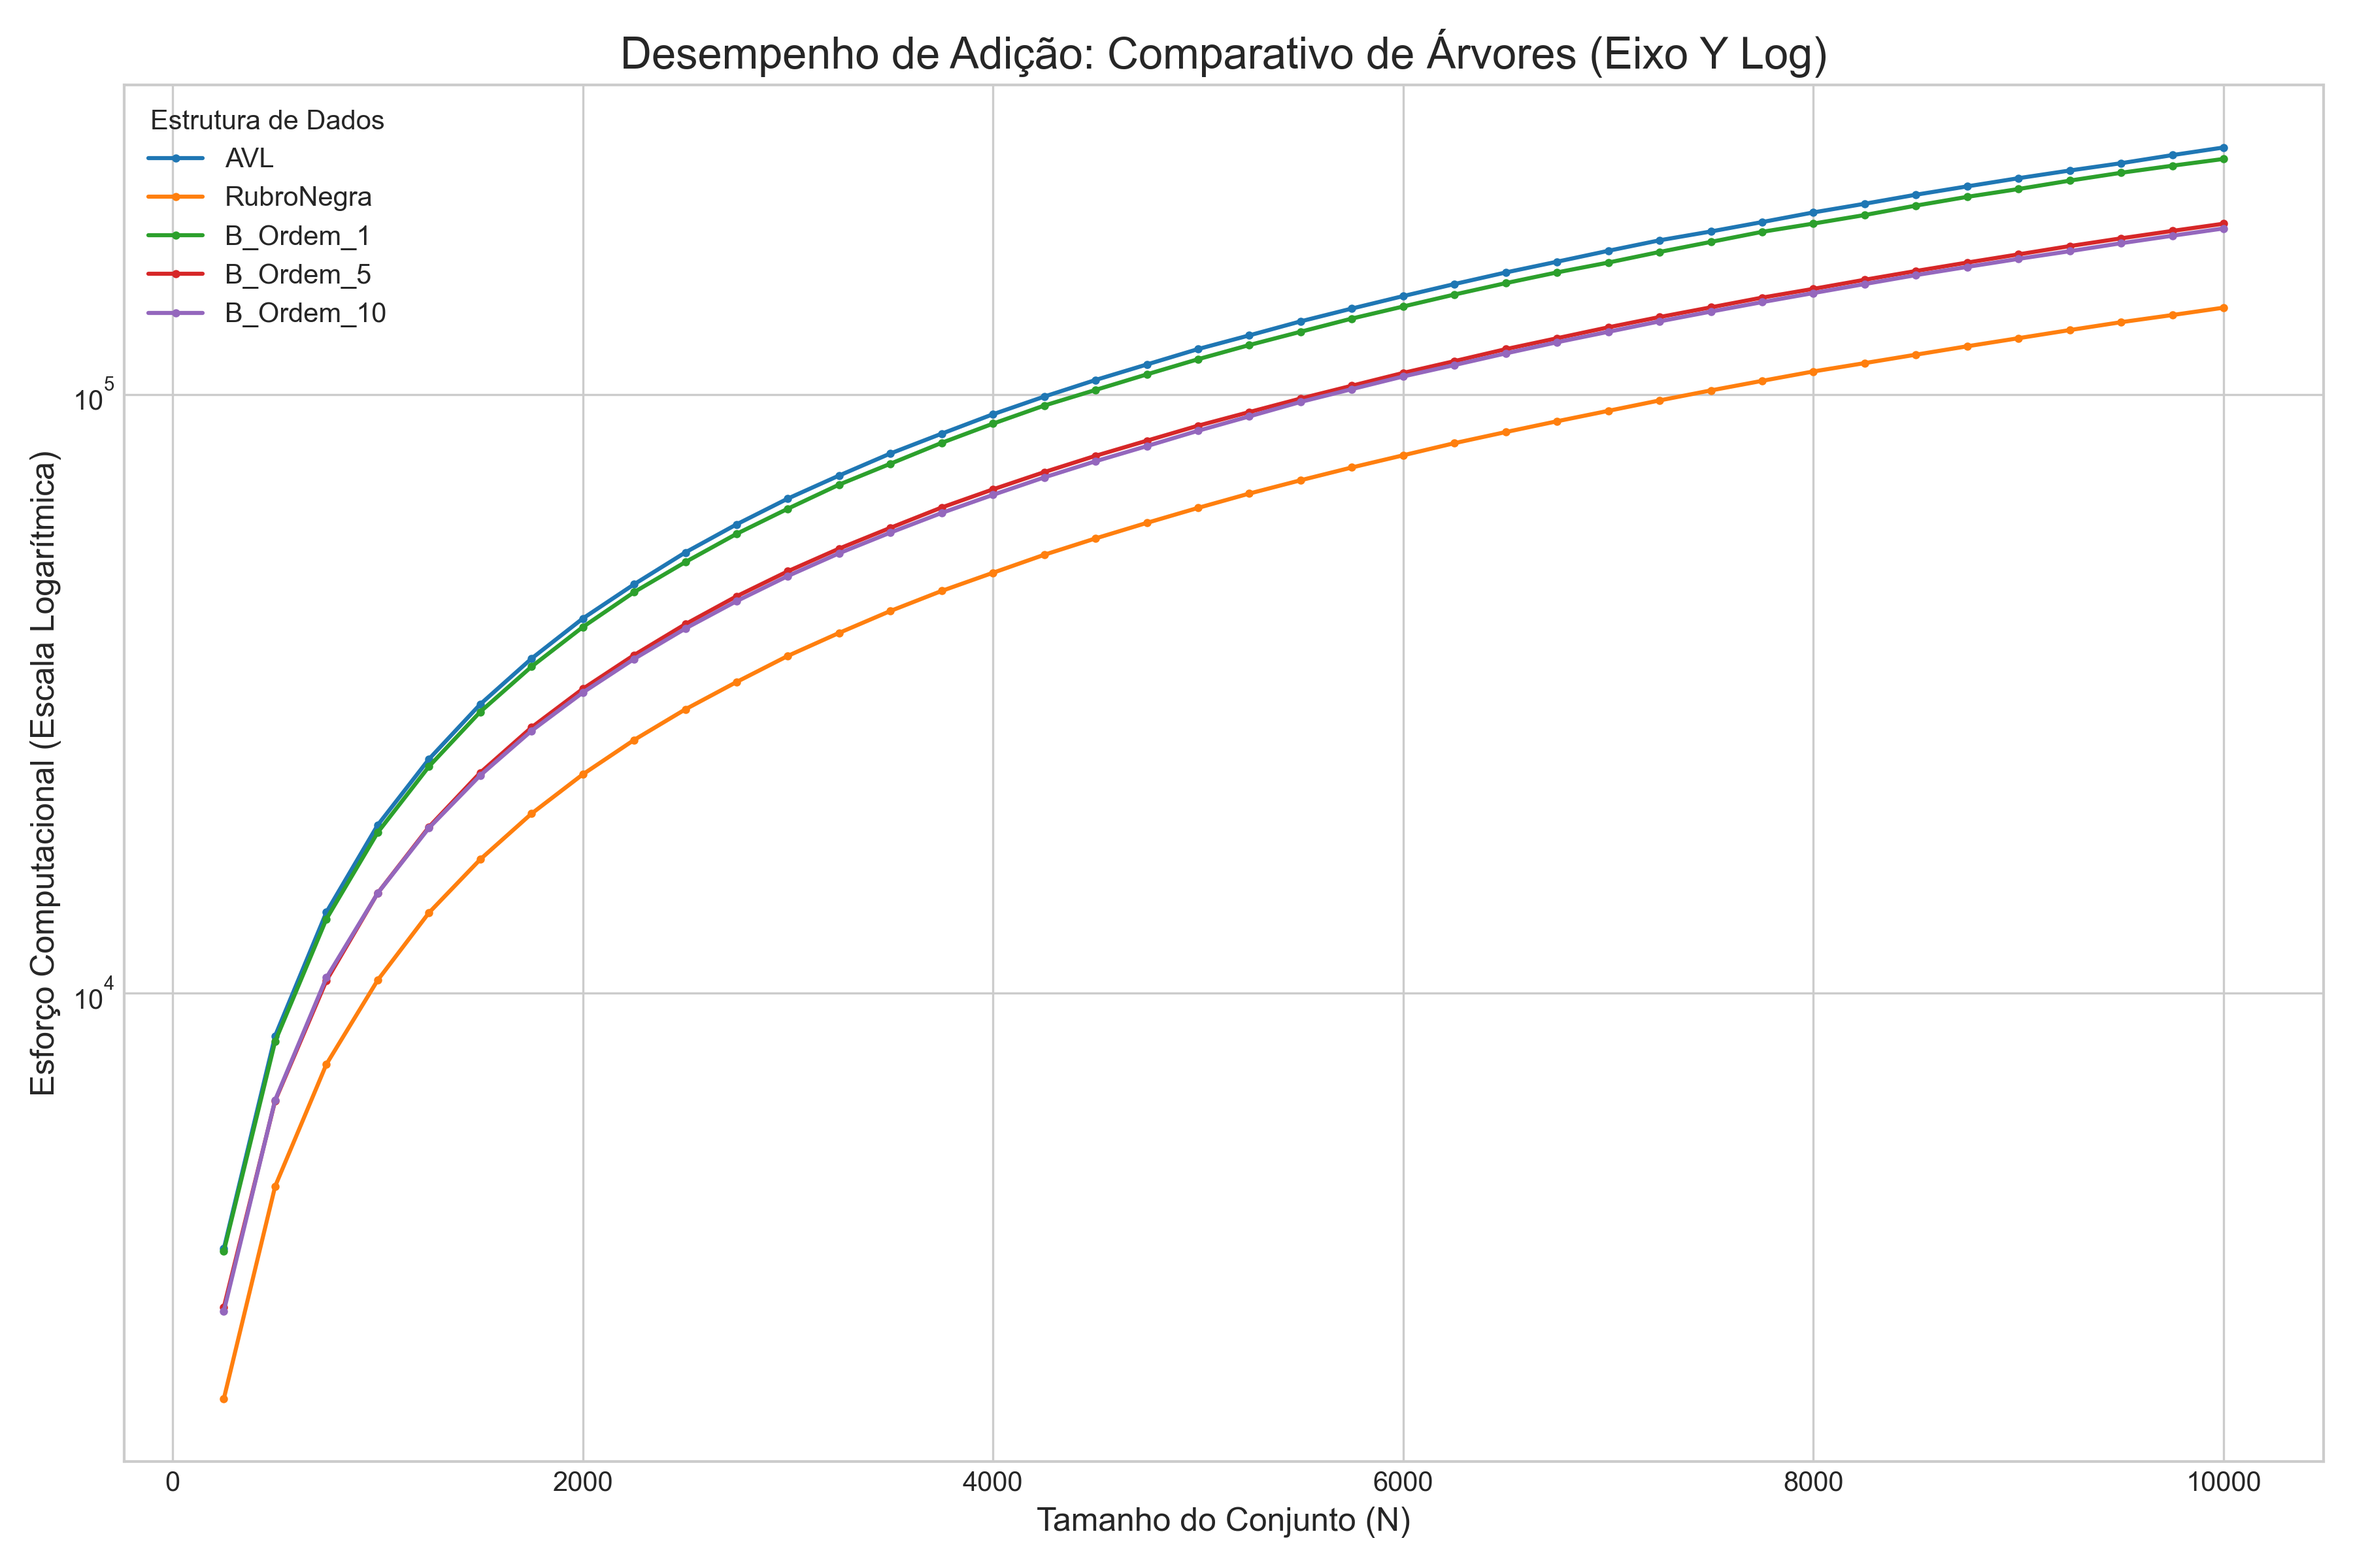
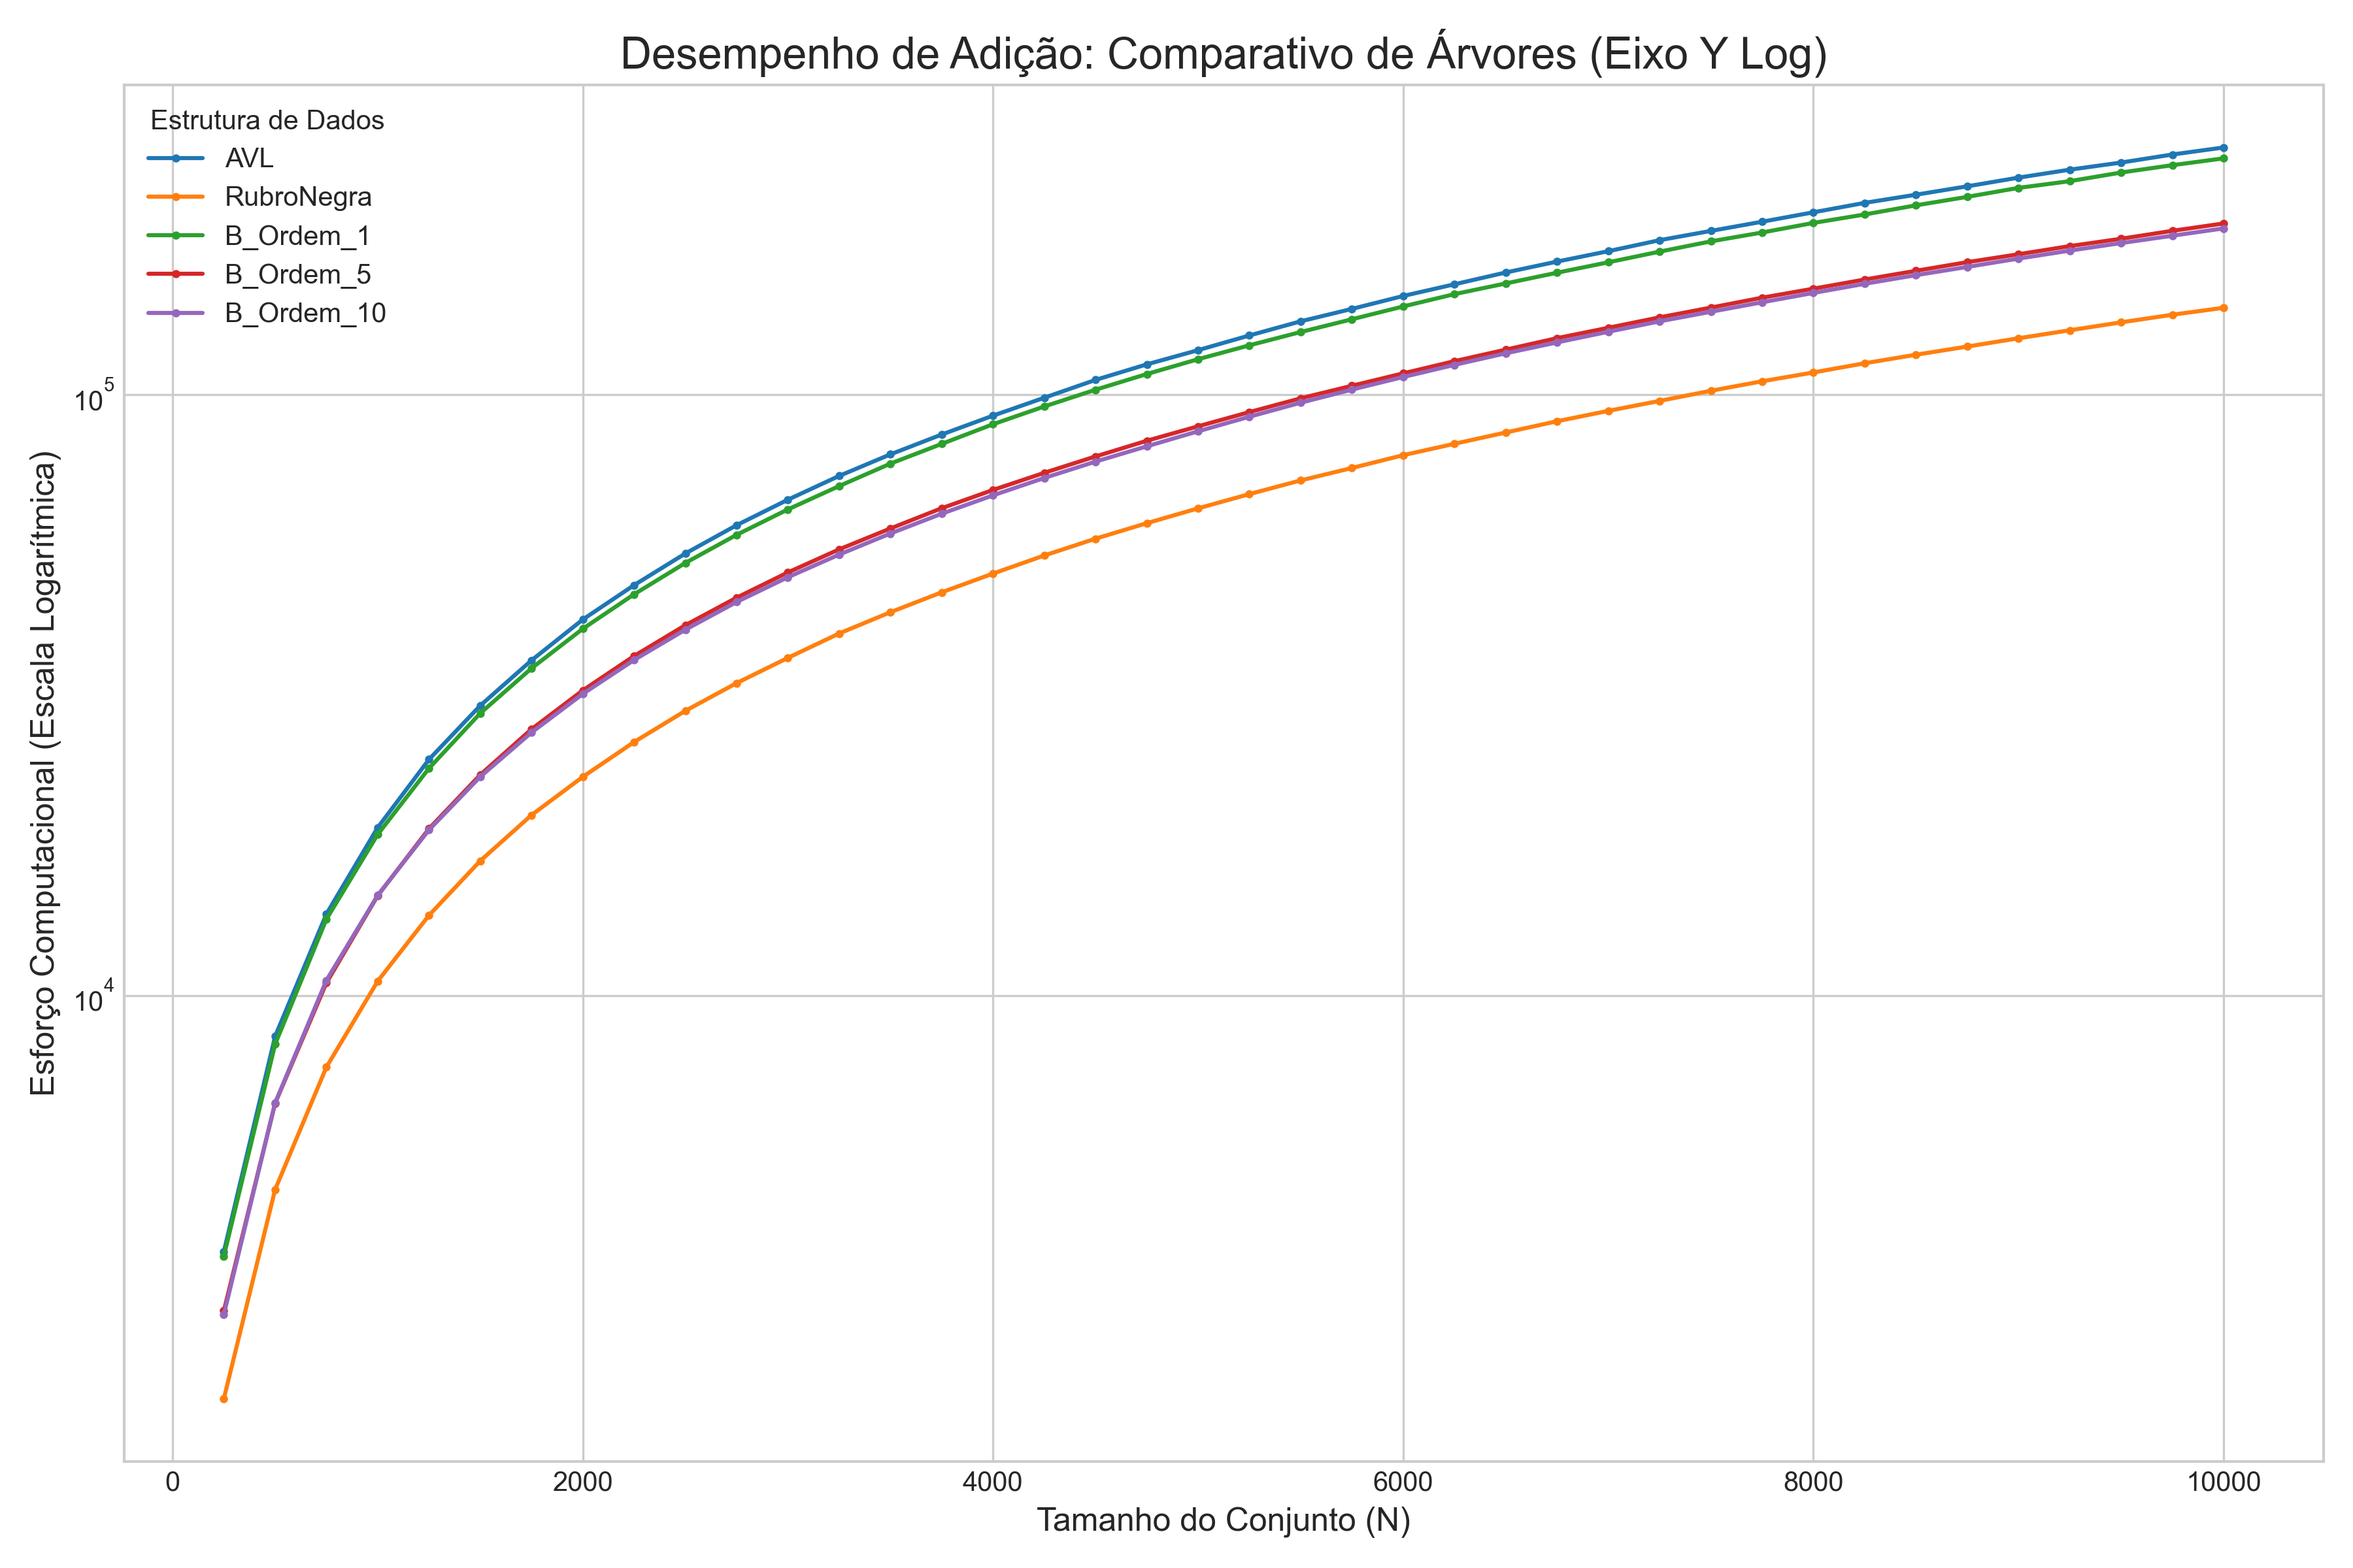
updatesss

diff --git a/experimento_arvores.c b/experimento_arvores.c
@@ -361,8 +361,7 @@ NoB* btree_localizaNo(ArvoreB* arvore, int chave) {
     while (no != NULL) {
         int i = btree_pesquisaBinaria(no, chave);
         if (no->filhos[i] == NULL) return no;
-        
-        contB++;
+        contB++;      
         no = no->filhos[i];
     }
     return NULL;
@@ -445,10 +444,10 @@ void btree_remover_interno(ArvoreB* arvore, NoB* no, int chave) {
         }
 
         if (ultimo_filho && idx > no->total) {
-            contB++; 
+            //contB++; 
             btree_remover_interno(arvore, no->filhos[idx - 1], chave);
         } else {
-            contB++; 
+            //contB++; 
             btree_remover_interno(arvore, no->filhos[idx], chave);
         }
     }
@@ -495,6 +494,7 @@ void preencher_filho(ArvoreB* arvore, NoB* no, int idx_filho) {
 }
 
 void emprestar_do_anterior(NoB* no, int idx) {
+    contB++; //add
     NoB* filho = no->filhos[idx];
     NoB* irmao = no->filhos[idx - 1];
 
@@ -515,6 +515,7 @@ void emprestar_do_anterior(NoB* no, int idx) {
 }
 
 void emprestar_do_proximo(NoB* no, int idx) {
+    contB++; //add
     NoB* filho = no->filhos[idx];
     NoB* irmao = no->filhos[idx + 1];
 
@@ -535,6 +536,7 @@ void emprestar_do_proximo(NoB* no, int idx) {
 }
 
 void fundir_com_proximo(ArvoreB* arvore, NoB* no, int idx) {
+    contB++; //add
     NoB* filho = no->filhos[idx];
     NoB* irmao = no->filhos[idx + 1];
 
@@ -732,6 +734,7 @@ void rb_balancear_insercao(ArvoreRubro* arvore, NoRubro* no) {
 }
 
 void rb_remover(ArvoreRubro* arvore, int valor) {
+    contRubro++;
     NoRubro* noRemover = rb_localizar(arvore, valor);
     if (noRemover != arvore->nulo) {
         rb_removerNo(arvore, noRemover);
